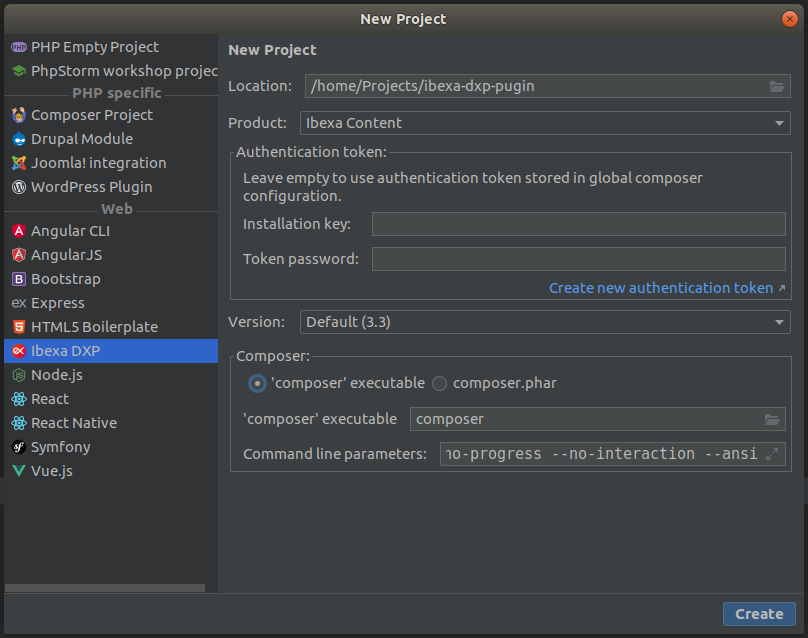
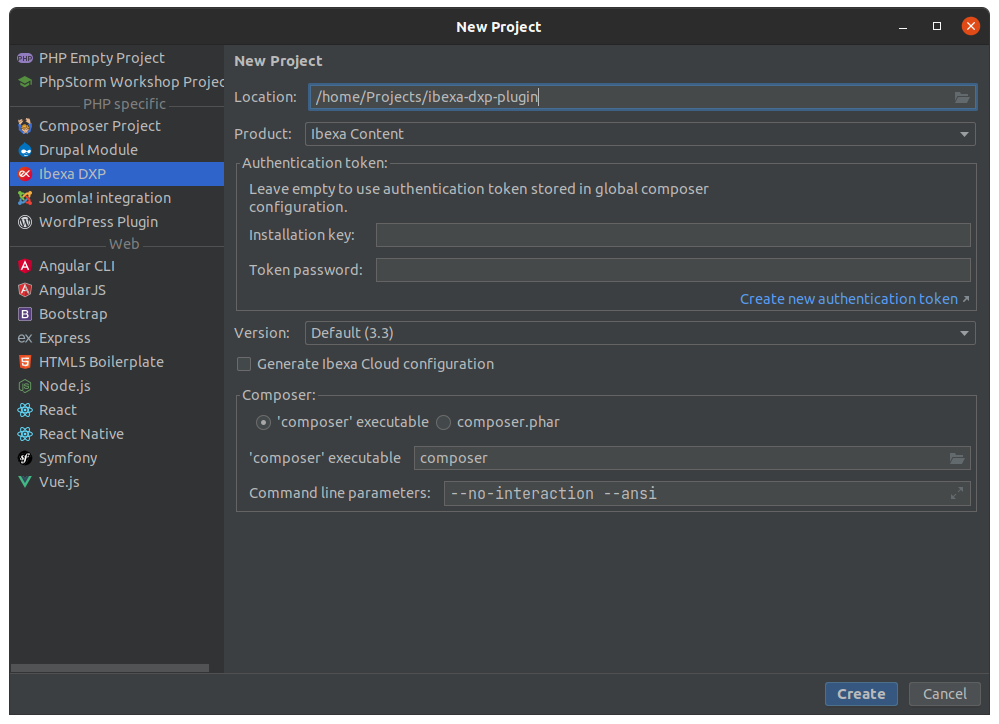
Updated PhpStorm plugin documentation

Changed region(s): [[0.0, 0.0, 1.0, 1.0], [0.1856, 0.8934, 0.2166, 0.9232]]

diff --git a/docs/community_resources/phpstorm_plugin.md b/docs/community_resources/phpstorm_plugin.md
@@ -28,6 +28,27 @@ You can also install the plugin manually from a `.jar` file:
 2\. In PhpStorm settings/preferences (depending on your system), select **Plugins** > (gear icon) > **Install plugin from Disk...**
 and select the downloaded file.
 
+## Plugin configuration
+
+Plugin configuration is available under PhpStorm settings/preferences (depending on your system), 
+select **PHP** > **Frameworks** > **Ibexa DXP** and allows to
+
+* Enable and disable plugin features for current project
+* Change product edition and version by current project
+
+![Intention](img/phpstorm_plugin_settings.png)
+
+!!! note
+
+    Some plugin features depends on selected product edition and version are selected e.g. 
+    "deprecated namespaces usage" inspection is enabled only if project use 4.x product version.  
+
+Plugin configuration is automatically resolved while opening Ibexa DXP project for the first time. If detection 
+completed successfully, suitable notification will appear with "Enable Ibexa DXP support for this project" link.
+
+If project was created using Ibexa DXP project wizard, plugin will be automatically enabled and configured based 
+on wizard data.
+
 ## Features
 
 ### Project wizard
@@ -40,7 +61,8 @@ In project settings form you can choose:
 - Location of the project
 - Product edition: Ibexa OSS, Ibexa Content, Ibexa Experience, Ibexa Commerce
 - Authentication token (for Content, Experience and Commerce editions)
-- Product version: Default (latest LTS version), Latest (fast track or LTS), Latest LTS and Development (available internally only)
+- Product version: Default (latest LTS version), Latest (fast track or LTS), Latest LTS and "Next 3.x" (unstable, based on 3.x branch) and "Next 4.x" (unstable, base on 4.x branch)
+- Generate [Ibexa Cloud configuration](getting_started/install_on_ibexa_cloud) 
 - Composer settings
 
 ![Create a project](img/phpstorm_plugin_create_project.png)
@@ -150,10 +172,30 @@ Besides configuration structure, for the following YAML keys addition suggestion
     - `ezplatform.<scope>.content_create_view.<view_type>.<view_name>.match`
     - `ezplatform.<scope>.content_edit_view.<view_type>.<view_name>.match`
     - `ezplatform.<scope>.content_translate_view.<view_type>.<view_name>.match`
--  List of available SiteAccess matchers, for:
+- List of available SiteAccess matchers, for:
     - `ezplatform.siteaccess.match`
 - List of available block attribute types, for:
     - `ezplatform_page_fieldtype.blocks.<block_name>.attributes.<attribute_name>.type`
+- List of available configuration scopes, for:
+    - `ezplatform`
+- List of available siteaccess names, for:
+    - `ezplatform.siteaccess.default_siteaccess`
+    - `ezplatform.siteaccess.groups`
+    - `ezplatform.system.<scope>.translation_siteaccesses$`
+- List of available design names, for:
+    - `ezdesign.design_list`
+    - `ezplatform.system.<scope>.design`
+- List of available repositories, for:
+    - `ezplatform.system.<scope>.repository`
+- List of available search engines, for:
+    - `ezplatform.repositories.<repository>.search.engine`
+- List of available custom tags, for:
+    - `ezplatform.system.<scope>.fieldtypes.ezrichtext.custom_tags`
+- List of available view types, for:
+    - `ezplatform.<scope>.content_view`
+    - `ezplatform.<scope>.content_create_view`
+    - `ezplatform.<scope>.content_edit_view`
+    - `ezplatform.<scope>.content_translate_view`
 
 ### Structure autocompletion in DBAL schema file
 
@@ -167,6 +209,23 @@ Parameter names suggestions are available in `\eZ\Publish\Core\MVC\ConfigResolve
 
 Suggested results take into account namespace argument, if its value can be resolved without running interpreter
 (for example, string literal or const reference).
+
+### Query Types names autocompletion
+
+Query Types names suggestions are available in `\eZ\Publish\Core\QueryType\QueryTypeRegistry::getQueryType` method calls.
+
+Suggestions are based services definition tagged as `ezplatform.query_type`.
+
+### Query Types parameters autocompletion
+
+Parameter names suggestions are available for query types implementing `\eZ\Publish\Core\QueryType\QueryType` interface
+or extending `\eZ\Publish\Core\QueryType\OptionsResolverBasedQueryType` class in the following places:
+
+* `\eZ\Publish\Core\QueryType\QueryType::getQuery` method calls
+* `\eZ\Publish\Core\QueryType\QueryType::getQuery` method definition
+* `\eZ\Publish\Core\QueryType\OptionsResolverBasedQueryType::doGetQuery` method definition 
+
+![File template](img/phpstorm_plugin_query_type_params.png)
 
 ### Intentions and inspections
 
